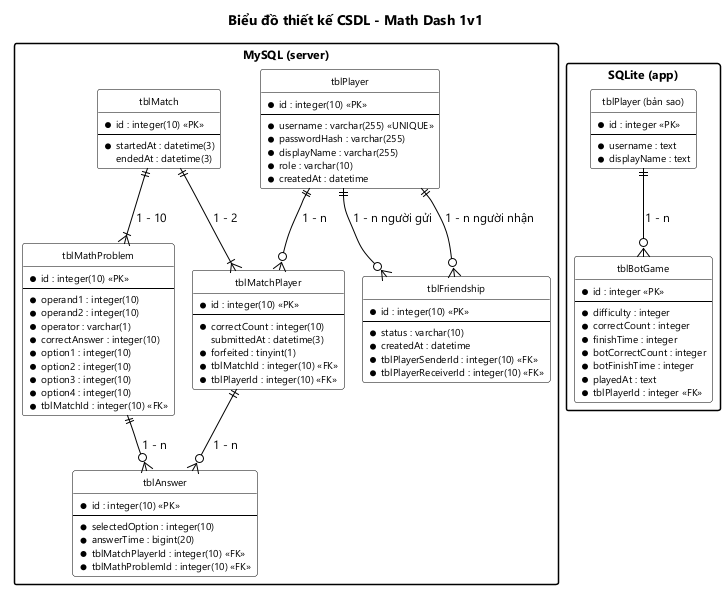
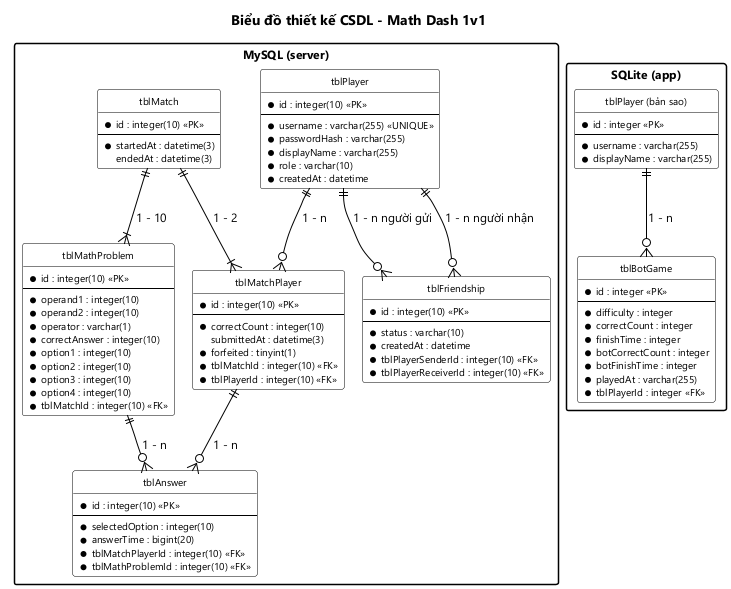
fix(sqlite): cột chữ của SQLite khai báo VARCHAR(255) khớp thiết kế, tăng DB_VERSION lên 4

diff --git a/app/src/main/java/ptit/e23cnpm01/nguyenbahung/math_dash/dao/DatabaseHelper.java b/app/src/main/java/ptit/e23cnpm01/nguyenbahung/math_dash/dao/DatabaseHelper.java
@@ -6,7 +6,7 @@ import android.database.sqlite.SQLiteOpenHelper;
 
 public class DatabaseHelper extends SQLiteOpenHelper {
     private static final String DB_NAME = "math_dash.db";
-    private static final int DB_VERSION = 3;
+    private static final int DB_VERSION = 4;
 
     public DatabaseHelper(Context context) {
         super(context, DB_NAME, null, DB_VERSION);
@@ -21,8 +21,8 @@ public class DatabaseHelper extends SQLiteOpenHelper {
     public void onCreate(SQLiteDatabase db) {
         db.execSQL("CREATE TABLE tblPlayer ("
                 + "id INTEGER PRIMARY KEY, "
-                + "username TEXT NOT NULL, "
-                + "displayName TEXT NOT NULL)");
+                + "username VARCHAR(255) NOT NULL, "
+                + "displayName VARCHAR(255) NOT NULL)");
         db.execSQL("CREATE TABLE tblBotGame ("
                 + "id INTEGER PRIMARY KEY AUTOINCREMENT, "
                 + "difficulty INTEGER NOT NULL CHECK (difficulty BETWEEN 1 AND 3), "
@@ -30,7 +30,7 @@ public class DatabaseHelper extends SQLiteOpenHelper {
                 + "finishTime INTEGER NOT NULL, "
                 + "botCorrectCount INTEGER NOT NULL, "
                 + "botFinishTime INTEGER NOT NULL, "
-                + "playedAt TEXT NOT NULL, "
+                + "playedAt VARCHAR(255) NOT NULL, "
                 + "tblPlayerId INTEGER NOT NULL REFERENCES tblPlayer(id))");
     }
 

diff --git a/docs/chung/03-csdl.md b/docs/chung/03-csdl.md
@@ -52,10 +52,10 @@ Chuyển kiểu:
 
 | Java | MySQL | SQLite |
 |---|---|---|
-| String | varchar(255) (toán tử: varchar(1)) | text |
+| String | varchar(255) (toán tử: varchar(1)) | varchar(255) |
 | int | integer(10) | integer |
 | long | bigint(20) | integer |
-| Date | datetime(3), có mili giây để so thời gian làm bài | text (dạng yyyy-MM-dd HH:mm:ss) |
+| Date | datetime(3), có mili giây để so thời gian làm bài | varchar(255) (dạng yyyy-MM-dd HH:mm:ss) |
 | boolean | tinyint(1) | integer (0 / 1) |
 
 answerOptions : List\<Integer> luôn có đúng 4 phần tử nên tách thành 4 cột option1 … option4, giữ đúng thứ tự đã xáo trộn.
@@ -241,8 +241,8 @@ CREATE TABLE tblFriendship (
 ```sql
 CREATE TABLE tblPlayer (
     id          INTEGER PRIMARY KEY,            -- cùng id với MySQL, không tự tăng
-    username    TEXT    NOT NULL,
-    displayName TEXT    NOT NULL
+    username    VARCHAR(255) NOT NULL,
+    displayName VARCHAR(255) NOT NULL
 );
 
 CREATE TABLE tblBotGame (
@@ -252,7 +252,7 @@ CREATE TABLE tblBotGame (
     finishTime      INTEGER NOT NULL,             -- mili giây
     botCorrectCount INTEGER NOT NULL,
     botFinishTime   INTEGER NOT NULL,             -- mili giây
-    playedAt        TEXT    NOT NULL,
+    playedAt        VARCHAR(255) NOT NULL,
     tblPlayerId     INTEGER NOT NULL REFERENCES tblPlayer(id)
 );
 ```
